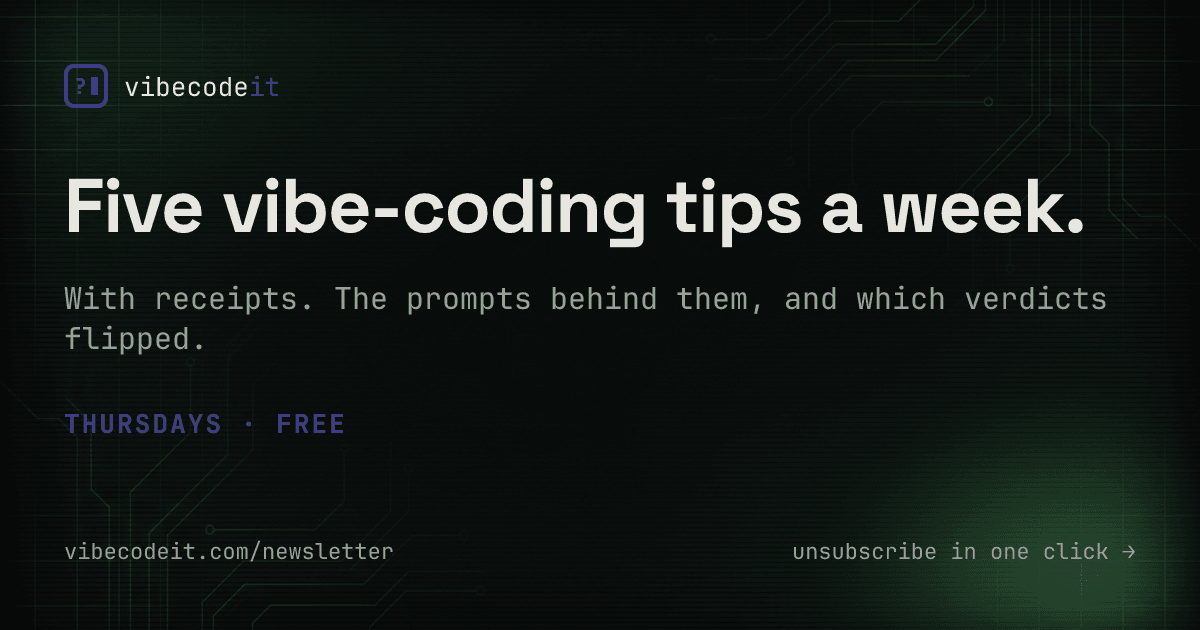
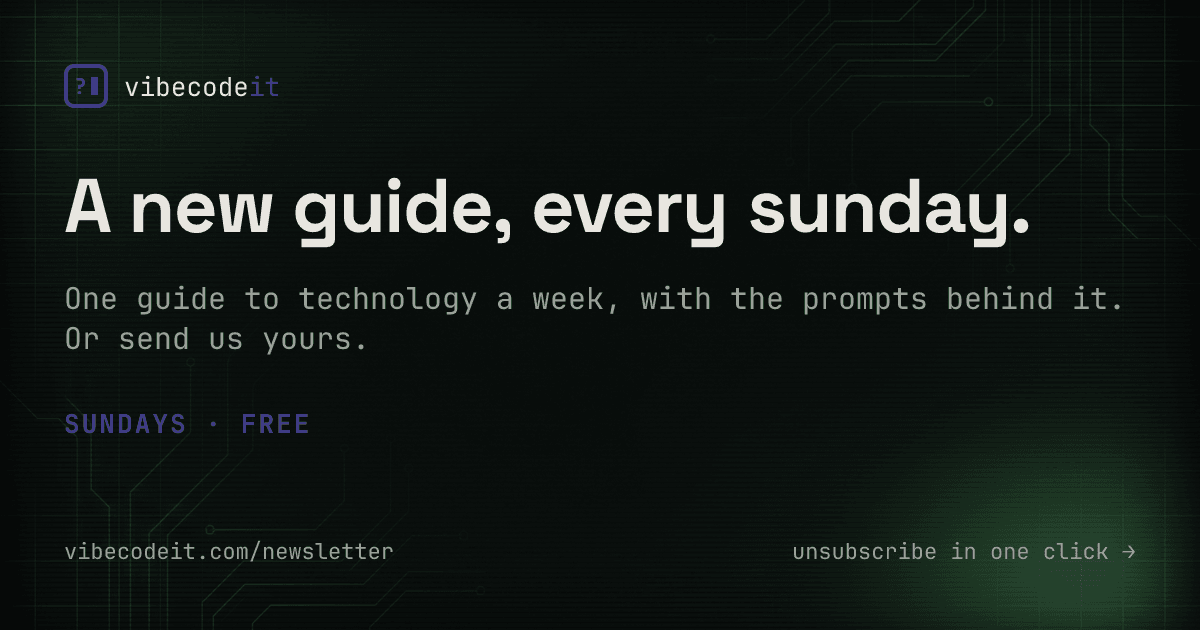
copy: repitch the newsletter as a weekly sunday guide
Change the promise from "five vibe-coding tips, thursdays" to "a new guide to
technology, every sunday, submit yours and we'll publish it", and rewrite every
heading, description and supporting line to match.

Covers all thirteen places the old promise appeared: the digest card, bar and
reveal, the newsletter page (meta description, h1, sub, button, fine print and
the "in every issue" list), the submit page, the newsletterCard OG template,
and the three toasts in app.js. A grep for "thursday" now returns nothing.

The OG card's cache key is manual, so it moves from newsletter:1 to
newsletter:2; without that the hashed cache keeps serving the old image.
npm run og re-rendered exactly one file.

The submission claim points at hello@vibecodeit.com with a prefilled subject
rather than promising a route that does not exist.

diff --git a/public/js/app.js b/public/js/app.js
@@ -1101,7 +1101,7 @@
           const d = await res.json().catch(() => ({}));
           throw new Error(d.error || '');
         }
-        toast(next ? 'digest on · see you thursday' : 'digest off');
+        toast(next ? 'digest on · see you sunday' : 'digest off');
       } catch (err) {
         digestToggle.dataset.on = next ? '' : '1';
         digestToggle.classList.toggle('on', !next);
@@ -1287,7 +1287,7 @@
           btn.disabled = true;
           const emailInput = form.querySelector('input[type=email]');
           emailInput.disabled = true;
-          toast('in. see you thursday.');
+          toast('in. see you sunday.');
           // waitlist_signup is captured server-side in /api/waitlist — no
           // client event, or blocked-analytics visitors vanish from the count.
           remember('digest_subscribed');
@@ -1318,7 +1318,7 @@
       const res = await jsonPost('/api/account/digest', 'POST', { on: true, placement }).catch(() => null);
       if (res?.ok) {
         btn.textContent = "you're in ✓";
-        toast('digest on · see you thursday');
+        toast('digest on · see you sunday');
         remember('digest_subscribed');
         setTimeout(() => {
           if (reveal) reveal.hidden = true;

diff --git a/AGENT_VIBE.md b/AGENT_VIBE.md
@@ -365,3 +365,37 @@ restarted.
   `npm test` (13 passing), and `npm exec -- astro build` passed. Runtime check
   confirmed the rendered markup and that no space crept in before the mark.
 - Commit: `copy: restore the homepage question mark, struck through`.
+
+### 2026-09-04 — Repitch the newsletter: a weekly sunday guide, open to submissions
+
+- Changed the newsletter promise from "five vibe-coding tips, thursdays" to "a new
+  guide to technology, every sunday · submit yours and we'll publish it", and
+  rewrote every heading, description and supporting line to match.
+- Updated all thirteen places the old promise appeared, because a newsletter that
+  says thursday in one placement and sunday in another is broken:
+  `src/components/DigestCard.astro` (heading, sub, button, fine print),
+  `src/components/DigestBar.astro`, `src/components/DigestReveal.astro` (default
+  sub), `src/pages/newsletter.astro` (meta description, `h1`, sub, submit button,
+  fine print, the "in every issue" list, and the file's own comment),
+  `src/pages/submit.astro`, the `newsletterCard` OG template in
+  `scripts/generate-og.mjs`, and the three "see you thursday" toasts in
+  `public/js/app.js`. A grep for `thursday` across `src/`, `scripts/` and
+  `public/js/` now returns nothing.
+- The OG card's cache key is manual, so it was bumped from `newsletter:1` to
+  `newsletter:2`; without that the hashed cache would have kept serving the old
+  image. `npm run og` re-rendered exactly one file, `public/og/newsletter.png`.
+- Gave the submission claim a real path rather than leaving it as a promise with
+  no route: the newsletter page now points at
+  `hello@vibecodeit.com` (the documented operator contact) with a prefilled
+  subject, and says the guide runs with the writer's byline. No new backend ·
+  there is no article submission pipeline, and inventing a half one would be
+  worse than an email address.
+- Note on cadence: no send day is hardcoded anywhere. `scripts/weekly-digest.mjs`
+  sends whenever it is invoked, so whatever cron or manual routine triggers it has
+  to move to Sunday for the copy to stay true.
+- Verification: `node --check public/js/app.js`, `git diff --check`,
+  `npm run validate` (1,093 app files), `npm test` (13 passing),
+  `npm exec -- astro build`, and `npm run og` all passed. Runtime check confirmed
+  the new copy on the homepage digest card, the digest bar, and `/newsletter`
+  including the mailto link.
+- Commit: `copy: repitch the newsletter as a weekly sunday guide`.
